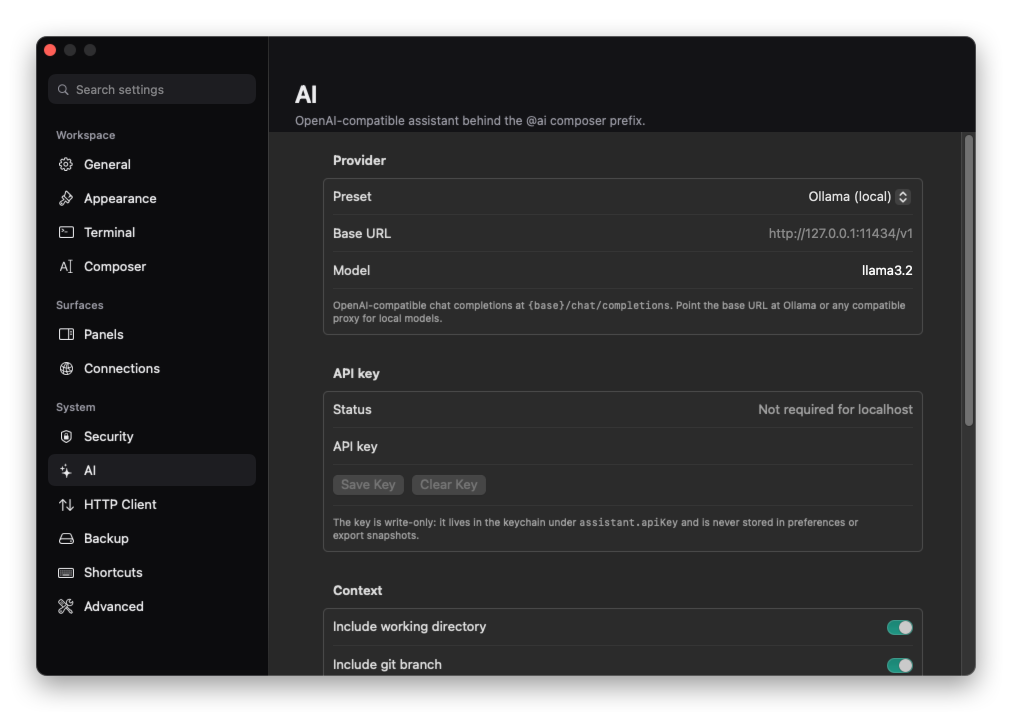
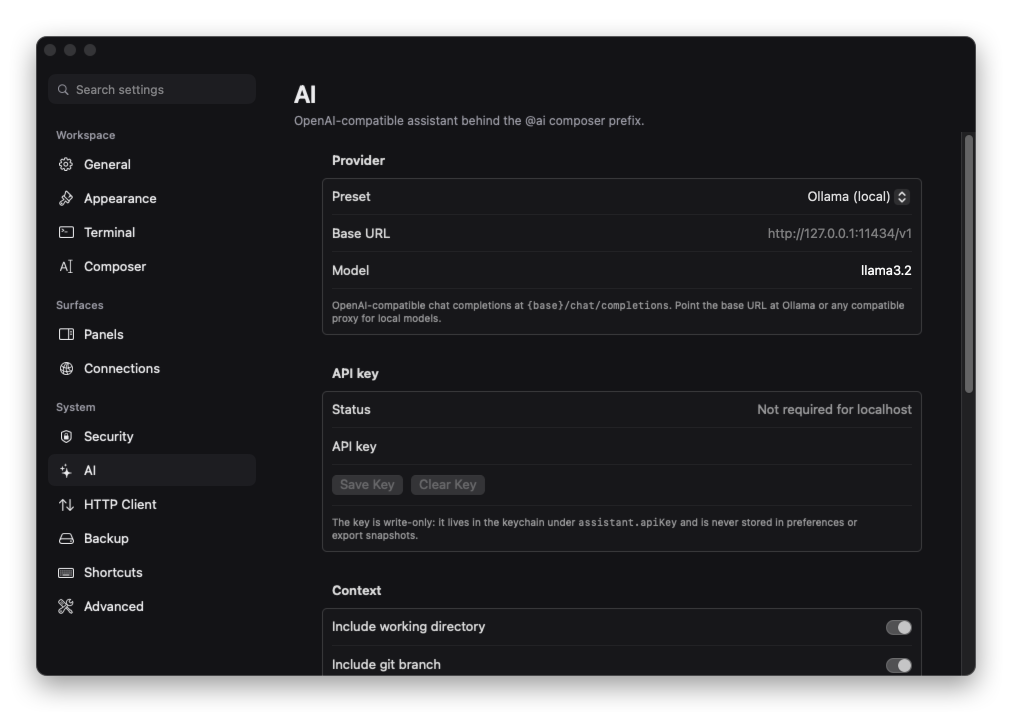
README and pictures: what the new features do, what was left out and why
Features, Remote sessions (jump hosts and the agent choice), Security model,
Architecture, Bundled tools (rg, bat, imgcat: versions, hashes, sizes, how they
are checked) and a "Considered and left out" list with the reason for each.
Settings pictures retaken from the Screenshots artifact: the window is one
colour now and the opacity slider says Terminal opacity. Nothing in them but
the sample project and the runner's generic account; Connections is not one.

The imgcat paragraphs say only what is known: it sends the inline-image
sequence. Whether the terminal draws it is being checked on a Mac.

Claude-Session: https://claude.ai/code/session_0165DgmoL1swZ7G6sBZGcerF

diff --git a/Sources/iTERMiNAL/App/ScreenshotScenes.swift b/Sources/iTERMiNAL/App/ScreenshotScenes.swift
@@ -1,7 +1,7 @@
 #if SCREENSHOTS
 import AppKit
 import Combine
-import SwiftTerm
+import class SwiftTerm.TerminalView
 import SwiftUI
 import WebKit
 

diff --git a/README.md b/README.md
@@ -199,8 +199,8 @@ A tour of the app in thirty-three pictures, in five groups.
       <br><b>Keyboard shortcuts</b> — every shortcut in one searchable window, opened with ⌘/.
     </td>
     <td width="50%" valign="top">
-      <img src="docs/images/settings-appearance.png" alt="Settings, Appearance page: theme, accent colours, window opacity, and a preview of the workspace frame.">
-      <br><b>Appearance settings</b> — theme, accent colour, window opacity and the workspace frame.
+      <img src="docs/images/settings-appearance.png" alt="Settings, Appearance page: theme, accent colours, terminal opacity, and a preview of the workspace frame.">
+      <br><b>Appearance settings</b> — theme, accent colour, terminal opacity and the workspace frame. The whole Settings window is one colour, the rail and the page alike.
     </td>
   </tr>
   <tr>
@@ -216,8 +216,8 @@ A tour of the app in thirty-three pictures, in five groups.
 ## Features
 
 - **Real terminal emulation** — PTY-backed login shell, full ANSI/xterm
-  support, alternate-screen apps, configurable scrollback and cursor style,
-  and an opt-in Metal GPU renderer.
+  support, alternate-screen apps, configurable scrollback, cursor style and
+  cursor animation, and an opt-in Metal GPU renderer.
 - **Right-click menu** — right-click a terminal (or the margin around it) for
   Copy, Paste, Select All, Find… and Clear Scrollback, and, for a terminal that
   is a tab or a pane, Split Right, Split Down and New Tab. Copy is greyed out
@@ -231,9 +231,37 @@ A tour of the app in thirty-three pictures, in five groups.
   and placeholders, with no shell plugin to install: the app gives each local
   shell the environment those plugins set. See
   [Colored output](#colored-output).
+- **Links** — ⌘-click a web address in a terminal and it opens in this app's own
+  browser pane. Right-click one and the menu leads with the address as it will
+  really be opened — a program can print a hyperlink whose text says one thing
+  and whose address is another — then **Open Link** (the ⌘-click route), **Open in
+  Default Browser** and **Copy Link**. Only `http` and `https` addresses are
+  offered for opening; any kind of link can be copied.
+- **Cursor animations** — Settings → Terminal → Cursor has an Animation choice
+  beside the cursor style: Breathing, Heartbeat, Neon flicker, Pulse and Candle,
+  each a fixed table of opacities, so the cursor looks the same on every launch.
+  An animation takes the place of the blink while the terminal is the one you are
+  typing in. It needs the default renderer — with the opt-in GPU renderer on, the
+  cursor stays as its style says — and it is off while Reduce Motion is.
+- **Your own fonts** — Settings → Terminal → Font has an **Import Font…** button
+  for `.ttf`, `.otf`, `.ttc` and `.otc` files. What you import appears in the
+  picker under **Imported**, grouped by family — a family spread over several
+  files is one entry — and is listed under the preview with its file name and
+  how many styles it holds, each with a Remove button. The preview draws sample
+  text — letters, digits, ligature candidates, box drawing and two icon glyphs —
+  in the font and size the terminal will use, so a choice shows before it is
+  made. An imported font is copied into the app's own folder and registered for
+  this app only: nothing is installed on your Mac, it is not in Font Book, and
+  removing it here deletes the copy. A file is refused before anything reads it
+  if it is not one of those four kinds or is over 50 MB.
+- **Terminal opacity** — Settings → Appearance → Window → Terminal opacity
+  (20–100 %) lets the desktop show through a terminal's background, softly
+  blurred. Text and the cursor stay solid, and so do the chrome, the panels,
+  btop and superfile; the frame has its own *Translucent frame* switch.
 - **Chat-style shell** — sidebar with New terminal / Automations / Skills rows
   and workspaces whose tabs read like conversations (blue activity dots for
-  live background sessions); a landing screen with quick-start cards and
+  live background sessions; drag a tab to put it where you want it, or onto
+  another project to move it there); a landing screen with quick-start cards and
   recent commands from your shell history; and a floating composer that types
   into whichever terminal has focus — drag it anywhere, minimise it to a pill,
   and recall earlier commands with the arrow keys. It colours what you type —
@@ -287,12 +315,25 @@ A tour of the app in thirty-three pictures, in five groups.
   a selector, screenshot) for testing a web UI from an agent.
 - **Remote sessions and files** — SSH/Mosh terminal sessions to saved hosts
   (with reconnect), plus a Finder-style file pane that browses this Mac or any
-  saved host over SFTP, with upload, download, and drag-and-drop. When a host
-  turns the file browser away it says why and what to do about it — see
+  saved host over SFTP, with upload, download, and drag-and-drop. A saved host
+  can be reached **through jump hosts** — a bastion, or several in a row — by
+  the terminal and the file browser alike, and has a choice about **forwarding
+  your ssh-agent**: see [Jump hosts and the SSH agent](#jump-hosts-and-the-ssh-agent).
+  When a host turns the file browser away it says why and what to do about it — see
   [When a host can't be reached](#when-a-host-cant-be-reached) — and one that
   wants a password can be browsed through a terminal tab you sign in to, without
   this app ever being given the password: see
   [A host that wants a password](#a-host-that-wants-a-password).
+- **Edit in Terminal** — right-click a file in the file browser, on this Mac, and
+  the menu has **Edit in Terminal**: a new terminal tab in the file's folder,
+  with the file open in your editor. Settings → General → Editor chooses which:
+  *Automatic* takes the first of Helix (`hx`), Neovim, Vim and Nano that this Mac
+  has, or pick one, or write a command of your own (the file's path goes at the
+  end). Helix and Neovim are not bundled; the setting says where to get them
+  (`brew install helix`, `brew install neovim`) and, under the picker, which
+  program it will run — Vim and Nano come with macOS. The line typed into the tab
+  names the editor by the absolute path found for it and quotes the file's, and a
+  file whose name has a control character in it is refused.
 - **Quick connect** — the sidebar's Connect menu lists saved hosts, saved
   screen-sharing endpoints, and whatever the local network is advertising right
   now. VNC and RDP open through the system's own client; SSH, SFTP and web open
@@ -327,6 +368,12 @@ A tour of the app in thirty-three pictures, in five groups.
   (a resource monitor, ⌥⌘P) in the side panel. Both ship inside the app,
   nothing to install, and both wear the terminal's colours — light, dark, and
   every change between. See [Bundled tools](#bundled-tools).
+- **ripgrep, bat and imgcat, built in** — `rg` (fast regular-expression search),
+  `bat` (`cat` with syntax highlighting, paged through `less` when it is longer
+  than the screen) and `imgcat` (sends a PNG, JPEG, GIF, HEIC or TIFF to the
+  terminal as an inline image) are on the `PATH` of every local terminal, after whatever you
+  have installed yourself, so yours is the one that runs. See
+  [Command-line tools](#command-line-tools).
 - **Proxmox VE** — list the VMs and containers on a cluster over its API, open
   a guest's console in the browser panel, and save a guest as an SSH host. The
   API token's secret half stays in the keychain; a self-signed certificate is
@@ -617,6 +664,46 @@ you for a password or 2FA code itself; the file browser runs `sftp`
 non-interactively, so it signs in **with a key, or through a terminal tab you
 have signed in to** ([below](#a-host-that-wants-a-password)).
 
+### Jump hosts and the SSH agent
+
+A saved `ssh` host has two more settings in **Settings → Connections**.
+
+**Jump host(s)** is a chain of hosts to go through on the way — a bastion, or
+several in a row — written the way `ssh -J` takes them: `[user@]host[:port]`,
+separated by commas, at most five, in the order they are used. The terminal tab
+and the file browser both use it (as `-o ProxyJump=…` for `ssh`, `sftp` and
+`ssh-copy-id`), so a host that is only reachable through a bastion browses like
+any other. What is written is checked before it goes anywhere near a command
+line, and what does not pass is refused rather than trimmed into something that
+does: the editor says what is wrong in place, and a connection with a bad list
+does not connect at all, because one meant to go through a bastion must never
+quietly go direct. Only `ssh` uses jump hosts: `mosh` talks to the host directly
+over UDP, which a host behind a bastion cannot accept, and a custom command is
+yours to write. `ssh` checks each hop's host key against your `known_hosts` as it
+always does, and a hop you have never connected to can ask whether to trust it —
+a question the file browser, with no terminal to ask on, cannot put. If a listing
+through a new bastion fails on its host key, connect to it once in a terminal tab
+and ask again.
+
+**Forward SSH agent** is the choice of whether a terminal session lets the host
+use the keys in your ssh-agent. Forwarding lets a program on the host — and
+anyone who can act as you there, such as root — ask the agent on this Mac to
+sign in elsewhere for as long as the connection is open. The keys themselves
+never leave this Mac either way; the risk is the use of them. So the default
+adds nothing, and the four choices are:
+
+| Choice | What happens |
+| --- | --- |
+| As in `~/.ssh/config` (default) | Nothing is added; your config decides, as it does for `ssh` outside this app |
+| Never | `-o ForwardAgent=no`, even where your config says yes |
+| Ask each time I connect | A question before each new tab and each reconnect, with **Don't Forward** as the button Return presses; *Forward Agent* adds `-A`, the other adds `ForwardAgent=no` |
+| Always | `-A` on every connection |
+
+That is a choice of *when* to forward: never, per connection, or always. A
+prompt for each *use* of a key — what some clients offer as per-request
+approval — is not built; see [Considered and left out](#considered-and-left-out).
+The file browser does not forward the agent: it has no use for it.
+
 ### Screen sharing, and what the network is advertising
 
 **Settings → Connections** has two sections beyond saved SSH hosts.
@@ -771,6 +858,24 @@ small link icon in the file browser's toolbar says it is doing that.
   after a sheet that names the destination and can show every character, with
   anything that looks like a key or a password masked first (best effort, not a
   promise); what comes back is shown as text and never run, opened or fetched.
+- **What reaches a command line is checked first, and refused rather than
+  repaired.** Jump hosts must be `[user@]host[:port]`, in the characters `ssh`
+  accepts — no quotes, `%` tokens, whitespace or URLs — and a connection whose
+  list fails does not connect at all, instead of connecting directly. The line
+  *Edit in Terminal* types names the editor by an absolute path and quotes the
+  file's, and a file name with a control character in it is refused (a newline
+  would end the line early and run what follows). An imported font must have one
+  of four extensions and be under 50 MB, is kept under a name that cannot leave
+  the app's folder, and is read by macOS's own font parser — the one place an
+  untrusted font could do harm — only because you chose it. A link in the
+  right-click menu is shown as it will really be opened, with control and
+  invisible characters replaced by a dot, and only `http` and `https` addresses
+  can be opened from it.
+- **This app never forwards the ssh-agent on its own.** The default adds
+  nothing, leaving it to your `~/.ssh/config`; forwarding happens only where
+  you chose *Always* or answered *Forward Agent*, and *Ask each time I connect*
+  answers *no* to Return. See
+  [Jump hosts and the SSH agent](#jump-hosts-and-the-ssh-agent).
 - **Certificate validation is never disabled.** A self-signed Proxmox host is
   reached by pinning the one certificate you confirmed by fingerprint, for that
   host and port alone — the system's own verdict is tried first, so pinning can
@@ -825,10 +930,14 @@ Sources/
 │   │                composer, command palette, themes
 │   ├── Terminal/    TerminalEngine protocol + SwiftTerm implementation,
 │   │                TerminalSession (PTY lifecycle, cwd/title/git metadata),
-│   │                the right-click menu and the colored-output environment
+│   │                the right-click menu and the colored-output environment,
+│   │                cursor animations, imported fonts, the bundled tools'
+│   │                PATH and the editor command line — Foundation-only where
+│   │                it can be
 │   ├── Input/       the composer's input: shell tokenizer, completion, history
 │   │                search, suggestions — Foundation-only where it can be
-│   ├── Workspace/   Workspace → Tab → PaneNode split tree, persistence
+│   ├── Workspace/   Workspace → Tab → PaneNode split tree, persistence, the
+│   │                order a dragged tab lands in
 │   ├── Panels/      scriptable browser pane, file pane, notes, HTTP client pane
 │   │                with the site explorer and the Extract tab (previews, crawler,
 │   │                assistant)
@@ -836,7 +945,8 @@ Sources/
 │   │                Extract parsers (HTML, CSS, XPath, JSONPath, CSV, XML),
 │   │                robots rules, crawl frontier — Foundation-only
 │   ├── Files/       FileSystemProvider protocol, local + SFTP providers, the
-│   │                shared-sign-in control socket
+│   │                shared-sign-in control socket, jump hosts and agent
+│   │                forwarding (what a saved host adds to an ssh command line)
 │   ├── Remote/      Proxmox VE client, Bonjour discovery, remote services
 │   ├── API/         Unix-socket server, message envelope, command router
 │   ├── Security/    keychain wrapper
@@ -1160,7 +1270,9 @@ Settings → Backup shows where, and moves them: **Export Workspaces…** writes
 single `.iterminal` JSON snapshot, **Import Workspaces…** reads one back and
 replaces the current layout.
 
-A snapshot carries workspaces, tabs, the split layout, and non-secret
+A snapshot carries workspaces, tabs, the split layout, saved connections (jump
+hosts and the agent-forwarding choice included — read an imported snapshot's
+hosts the way you would read an `ssh_config` someone sent you) and non-secret
 preferences. It deliberately leaves out secrets — the API token stays in the
 keychain, SSH has no passwords to carry — and machine-local paths such as
 `composerShell`, so importing on another Mac cannot point the app at a shell
@@ -1176,7 +1288,8 @@ file. App Sandbox stays off; Hardened Runtime stays on.
 ## Bundled tools
 
 Two third-party programs ship inside `iTERMiNAL.app`, in
-`Contents/Resources/Tools`, and open from the icons at the top right:
+`Contents/Resources/Tools`, and open from the icons at the top right (three more
+tools, for typing rather than opening, are [further down](#command-line-tools)):
 
 | Tool | What it is | Licence | How it gets into the app |
 | --- | --- | --- | --- |
@@ -1259,7 +1372,47 @@ panels and in Settings. To include them, on a Mac:
 scripts/fetch-superfile.sh                 # needs curl, lipo, codesign
 brew install gcc@15 make && scripts/build-btop.sh Vendor/Tools   # this Mac's arch only
 scripts/fetch-symbols-font.sh              # needs curl; runs anywhere
+scripts/fetch-cli-tools.sh                 # rg, bat, imgcat; needs curl, lipo, codesign
 ```
+
+### Command-line tools
+
+Three more programs ship in the app, for typing rather than for opening from an
+icon. They are in `Contents/Resources/Tools/bin`, and that folder is added to the
+**end** of the `PATH` of every local terminal — tabs, the dock and the composer's
+shell; a remote session has its own machine — so a `rg` or a `bat` you installed
+yourself, Homebrew's say, is found first, and the bundled one is what you have
+when there is nothing else.
+
+| Command | What it is | Licence | Version | How it gets into the app |
+| --- | --- | --- | --- | --- |
+| `rg` | [ripgrep](https://github.com/BurntSushi/ripgrep): recursive regular-expression search | MIT or Unlicense | 15.2.0 | Upstream's macOS release binaries for both chips, checked against pinned SHA-256 hashes that were matched to upstream's own `.sha256` files, merged into one universal binary and ad-hoc signed |
+| `bat` | [bat](https://github.com/sharkdp/bat): `cat` with syntax highlighting; output longer than the screen is paged through `less` | MIT or Apache-2.0 | 0.26.1 | The same, except that upstream publishes no checksums for it: its hashes are those of the files when the pin was made, so they say a file has not changed since, not that upstream vouched for it |
+| `imgcat` | Sends an image to the terminal as an inline image: `imgcat photo.png`, `imgcat -W 40 photo.heic`, or one piped in; sizes are cells, a percentage or pixels | MIT | this repository's own [script](scripts/imgcat) | Copied as it is |
+
+`imgcat` writes the inline-image escape sequence that iTerm2 introduced, which
+the terminal engine decodes with macOS's own image reader — PNG, JPEG, GIF, HEIC,
+TIFF — so it works in any terminal that draws those, and it prints nothing else. It refuses a missing file, a size that is not a size, and anything
+over 25 MB, with exit codes a script can read.
+
+**Versions** are pinned in `scripts/tools.env` and move only by a pull request
+that edits it; nothing is downloaded at runtime. Settings → Advanced lists them
+with their licences. In the bundle ripgrep is 8.4 MB and bat 12.0 MB (each is both
+chips' binaries in one file); the upstream archives they come from add up to
+10.2 MB, which is about what they add to the download.
+
+**What is checked.** CI refuses a finished app in which any of the three is
+missing, is not universal, links a library outside `/usr/lib` and
+`/System/Library`, or does not run (`--version`). `scripts/imgcat-check.py` — 34
+checks, run in CI on a Mac — reads what `imgcat` prints the way the terminal
+engine reads an inline image, and holds its refusals to their exit codes. The
+rule that puts the folder on the `PATH` is plain Foundation code with its own
+checks (it adds nothing that is not an absolute folder, nothing with a colon or a
+newline in it, nothing twice, and nothing to an environment with no `PATH`).
+
+**What it cannot do.** A shell whose startup files set `PATH` outright, rather
+than adding to it, takes the folder off again; `command -v rg` says which `rg` a
+tab will run.
 
 ## Roadmap
 
@@ -1273,6 +1426,45 @@ scripts/fetch-symbols-font.sh              # needs curl; runs anywhere
 - [ ] HTTP client: saved `.http` collections
 - [ ] Optional libghostty engine
 - [ ] Signed/notarized releases
+
+### Considered and left out
+
+Things looked at and not built, with the reason, so that a gap reads as a
+decision and not as an oversight.
+
+- **A native SSH client written in Swift.** Terminal tabs and the file browser run
+  the system's `ssh` and `sftp`, which is how they get your `~/.ssh/config`,
+  `known_hosts`, agent, jump hosts and keys without this app ever holding a
+  password. An SSH stack of its own would be a large, security-sensitive piece of
+  code to write and keep current; `TerminalEngine` and `FileSystemProvider` are
+  where one would plug in.
+- **Keys in the Secure Enclave, and approval for each use of a key.** Both need an
+  ssh-agent of this app's own: the Mac's agent holds the keys and signs without
+  asking the app, and keys in the Secure Enclave also need a signed build, which
+  is on the list above. Until then `ssh` uses whichever agent your
+  `~/.ssh/config` points at, here as anywhere. What is built is the choice of
+  *when* to forward the agent
+  ([above](#jump-hosts-and-the-ssh-agent)).
+- **mtr.** It sends ICMP probes, which on macOS takes root, and a setuid-root
+  binary inside an app bundle is the risk the btop note above refuses to take.
+  `traceroute` and `ping` ship with macOS and run in any tab.
+- **croc, Helix, Vim and curl are not bundled.** The macOS archives of croc are
+  8.5 MB and 9.2 MB, one per chip, and Helix's 16.7 MB and 16.1 MB (the versions
+  current when this was written: croc 11.5.5, Helix 25.07.1): together about
+  50 MB on top of the download, for programs `brew install` puts on the `PATH`
+  in a minute. Helix and Neovim are what *Edit in Terminal* opens when they are
+  installed; macOS ships Vim, Nano and a curl, upstream Vim publishes no macOS
+  binary, and the HTTP client panel is its own client, built on the system's URL
+  loading — which uses HTTP/2 wherever a server offers it — with *Copy as cURL*.
+- **bsdtar and unzip.** Both ship with macOS (`tar` is libarchive's `bsdtar`).
+  Which archive formats they open depends on the macOS release, and this has not
+  been checked here, so nothing in this app claims more than that.
+- **More Nerd Fonts.** *Symbols Nerd Font Mono* is bundled so Nerd Font icons draw
+  with any terminal font ([above](#bundled-tools)), and any Nerd Font family you
+  download can be imported (Settings → Terminal → Font). No patched families are
+  bundled.
+- **A shell of its own.** This is a terminal for the shell you already use; shell
+  scripts run in `sh`, `bash` or `zsh` on this Mac.
 
 ## License
 
